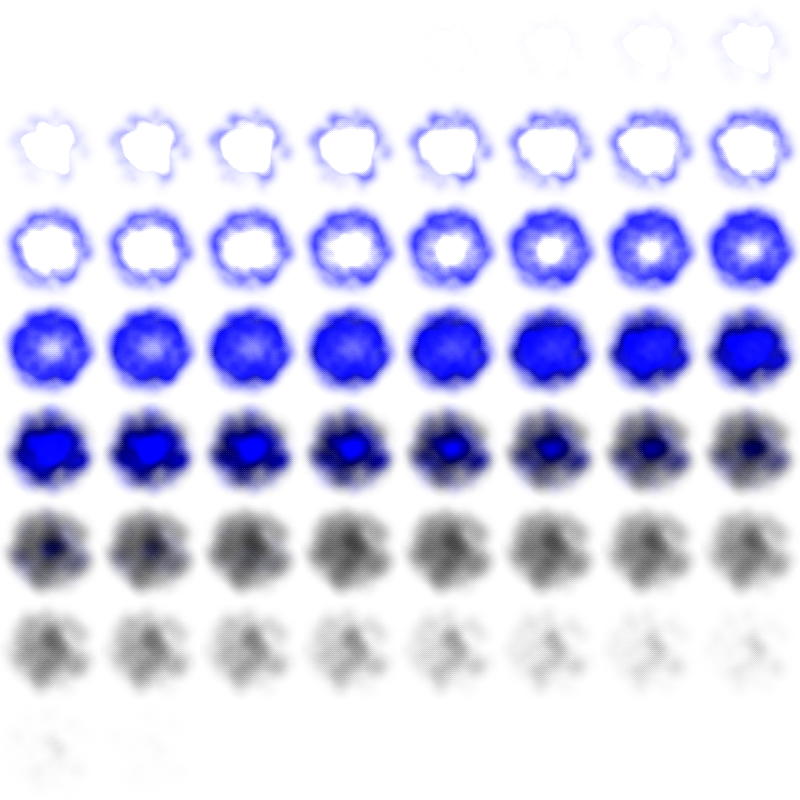
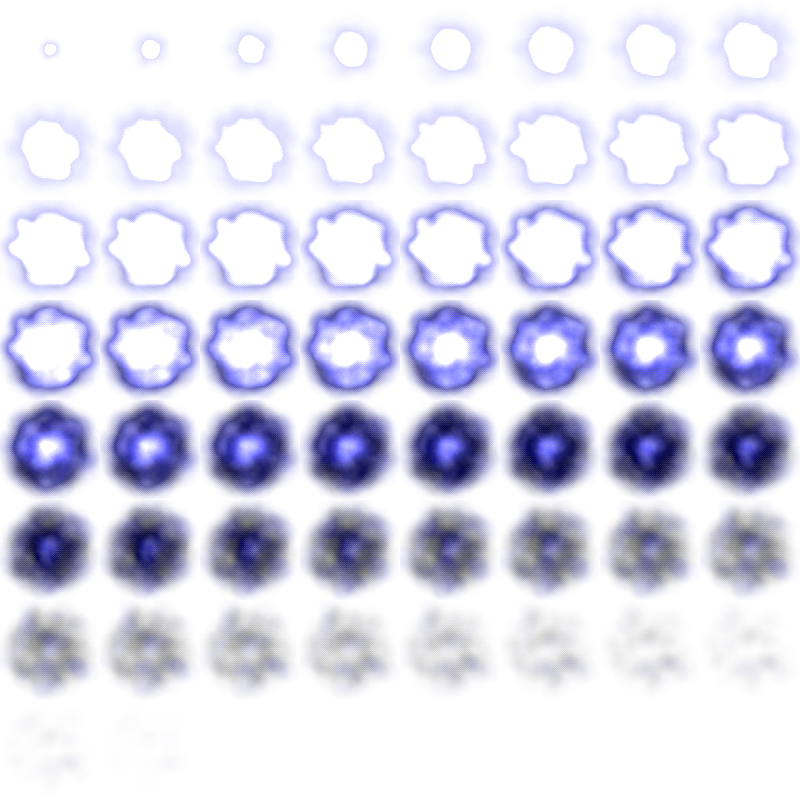
exp

diff --git a/assets/raw/exp.html b/assets/raw/exp.html
@@ -21,13 +21,13 @@ var fireParticle = {
     /** 生成開始フレーム */
     start: 0,
     /** 生成終了フレーム */
-    end: 15,
+    end: 30,
     /** 生成個数 */
     generate: {
         /** 初期生成個数 */
         initial: 90,
         /** 減衰率 */
-        rate: 0.8,
+        rate: 0.9,
     },
     /** パーティクル初期値 */
     initial: {
@@ -36,9 +36,9 @@ var fireParticle = {
         /** 半径 */
         radius: 2,
         /** 中心色 */
-        colorCenter:  { r: 255, g: 255, b: 255, a: 0.1 },
+        colorCenter:  { r: 220, g: 220, b: 255, a: 0.1 },
         /** 外縁色 */
-        colorOuterEdge: { r: 255, g: 255, b: 255, a: 0.0 },
+        colorOuterEdge: { r: 220, g: 220, b: 255, a: 0.0 },
     },
     /** 変化 */
     transition: {
@@ -61,12 +61,17 @@ var fireParticle = {
         colorCenter: {
             r: {
                 finalValue: 0,
-                duration: 10,
+                duration: 30,
                 easeFunc: "easeInExpo",
             },
             g: {
                 finalValue: 0,
-                duration: 10,
+                duration: 30,
+                easeFunc: "easeInExpo",
+            },
+            b: {
+                finalValue: 0,
+                duration: 40,
                 easeFunc: "easeInExpo",
             },
             a: {
@@ -87,6 +92,11 @@ var fireParticle = {
                 duration: 20,
                 easeFunc: "easeInExpo",
             },
+            b: {
+                finalValue: 0,
+                duration: 30,
+                easeFunc: "easeInExpo",
+            },
         },
     },
 };
@@ -97,20 +107,20 @@ var fireParticle = {
  * 煙用.
  */
 var smokeParticle = {
-    start: 18,
+    start: 8,
     end: 30,
     generate: {
-        initial: 35,
+        initial: 20,
     },
     initial: {
-        position: [ 10, 25 ],
+        position: [ 2, 25 ],
         radius: 5,
         colorCenter:  { r: 0, g: 0, b: 0, a: 0.05 },
         colorOuterEdge: { r: 0, g: 0, b: 0, a: 0.00 },
     },
     transition: {
         position: {
-            finalValue: [ 5, 40 ],
+            finalValue: [ 10, 40 ],
             duration: 10,
         },
         radius: {

diff --git a/src/GlShooter2.js b/src/GlShooter2.js
@@ -66,8 +66,6 @@ gls2.GlShooter2 = tm.createClass(
                 "aura": "assets/aura.png",
                 "explode0": "assets/explode0.png",
                 "explode1": "assets/explode1.png",
-                "explode2": "assets/explode2.png",
-                "explode3": "assets/explode3.png",
                 "shotbullet": "assets/shotbullet.png",
                 "bomb": "assets/bomb.png",
 

diff --git a/src/Effect.js b/src/Effect.js
@@ -2,7 +2,7 @@
 
 gls2.Effect = {};
 gls2.Effect.setup = function() {
-    gls2.Effect["explosion"] = Array.range(0, 4).map(function(i) {
+    gls2.Effect["explosion"] = Array.range(0, 2).map(function(i) {
         var exp = tm.app.AnimationSprite(tm.app.SpriteSheet({
             image: "explode" + i,
             frame: {
